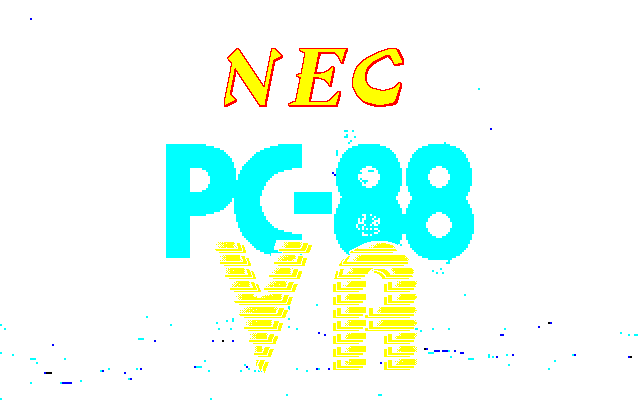
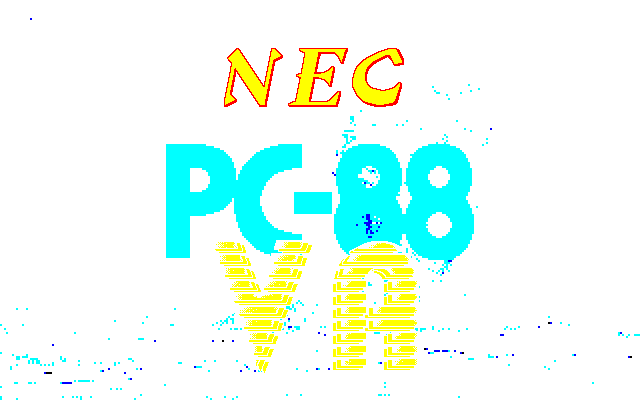
M109: keep the darkest step off on the digital RGB monitor

diff --git a/sdl2/selftest.c b/sdl2/selftest.c
@@ -5494,7 +5494,7 @@ static int test_8801_display(void) {
 }
 
 /* M103i: output levels for the analog and the digital RGB monitor; M109:
- * the digital monitor turns on every nonzero component. */
+ * the digital monitor turns a component on above 1/31 of full scale. */
 static int test_monitor_output_levels(void) {
 	const char *problem = NULL;
 
@@ -5504,11 +5504,12 @@ static int test_monitor_output_levels(void) {
 	    (scrndrawva_outputlevel(63, 6, FALSE) != 0xff)) {
 		problem = "analog output levels";
 	} else if ((scrndrawva_outputlevel(0, 5, TRUE) != 0) ||
-	           (scrndrawva_outputlevel(1, 5, TRUE) != 0xff) ||
+	           (scrndrawva_outputlevel(1, 5, TRUE) != 0) ||
+	           (scrndrawva_outputlevel(2, 5, TRUE) != 0xff) ||
 	           (scrndrawva_outputlevel(5, 5, TRUE) != 0xff) ||
-	           (scrndrawva_outputlevel(7, 6, TRUE) != 0xff) ||
-	           (scrndrawva_outputlevel(1, 6, TRUE) != 0xff) ||
-	           (scrndrawva_outputlevel(0, 6, TRUE) != 0)) {
+	           (scrndrawva_outputlevel(2, 6, TRUE) != 0) ||
+	           (scrndrawva_outputlevel(3, 6, TRUE) != 0xff) ||
+	           (scrndrawva_outputlevel(7, 6, TRUE) != 0xff)) {
 		problem = "digital RGB thresholds";
 	}
 	if (problem != NULL) {

diff --git a/vram/scrndrawva.c b/vram/scrndrawva.c
@@ -48,13 +48,14 @@ static void scrndrawva_initialize(void) {
  * Digital RGB monitor: [VA1] schematic pp. 261 and 263, the digital R, G and
  * B pins carry the analog colour drive through 1 kOhm, with no conversion
  * logic, so the monitor's input threshold decides each component. [MEAS]
- * (M109, PC-88VA2 VA demo on a digital monitor) every nonzero component is
- * on: the red NEC logo, R 31 G 7 of 63, shows yellow with a red edge (R 5)
- * and the dark rock white. See docs/modernization/digital8colormode.md.
+ * (M109, PC-88VA2 VA demo on a digital monitor) a component is on above
+ * 1/31 of full scale: the red NEC logo, R 31 G 7 of 63, shows yellow with a
+ * red edge (R 5) and the dark rock white, while a hidden screen in R 1 of 31
+ * stays black. See docs/modernization/digital8colormode.md.
  */
 BYTE scrndrawva_outputlevel(UINT value, UINT bits, BOOL digital) {
 	if (digital) {
-		return value ? 0xff : 0;
+		return ((value * 31) > ((1u << bits) - 1)) ? 0xff : 0;
 	}
 	return (BYTE)((value << (8 - bits)) | (value ? ((1u << (8 - bits)) - 1) : 0));
 }

diff --git a/docs/modernization/digital8colormode.md b/docs/modernization/digital8colormode.md
@@ -7,19 +7,21 @@ needed.
 
 ## Conversion
 
-Each of the colour components is converted on its own from the colour code
-the VA puts out (R and B 5 bits, G 6 bits, after the palette):
+Each colour component is converted on its own from the colour code the VA
+puts out (R and B 5 bits, G 6 bits, after the palette). A component is on
+(full, 255) when it is above 1/31 of full scale, otherwise off (0):
 
-| Component value | Digital monitor |
-| --- | --- |
-| 0 | off (0) |
-| 1 or more | on (full, 255) |
+| Component | Off | On |
+| --- | --- | --- |
+| R, B (5 bits, 0-31) | 0, 1 | 2-31 |
+| G (6 bits, 0-63) | 0, 1, 2 | 3-63 |
+
+In code: on when `value * 31 > 2^bits - 1`.
 
 So the picture has 8 colours: black, blue, red, magenta, green, cyan,
-yellow and white. Any colour that is not pure black in a component shows
-that component at full strength; for example, a dark grey (R 5, G 11,
-B 5) becomes white, and a red with a little green (R 31, G 7, B 0) becomes
-yellow.
+yellow and white. A dark grey such as R 5, G 11, B 5 becomes white, a red
+with a little green (R 31, G 7, B 0) becomes yellow, and the darkest red
+(R 1) stays black.
 
 The analog output is unchanged: a component `v` of `b` bits gives
 `(v << (8 - b))` with the low bits filled when `v` is nonzero.
@@ -34,13 +36,17 @@ Code: `scrndrawva_outputlevel()` in
   analog colour drive through 1 kΩ, with no conversion logic between them,
   so the monitor's input decides when a component is on.
 - `[MEAS]` M109, PC-88VA2 with a digital RGB monitor, the bundled PC-88VA
-  demonstration (maintainer's photograph,
-  [`m109-photos/va2-digital8-va-demo.jpg`](m109-photos/va2-digital8-va-demo.jpg)):
-  the NEC logo is yellow with a red edge, PC-88 cyan, VA yellow, and the sky,
-  the rock and the sea are white with a few blue and cyan dots.
-- The same scene in vaeg's analog output is
-  [`docs/images/vaeg-20260830-185259-0000024846-000.png`](../images/vaeg-20260830-185259-0000024846-000.png).
-  Its colour codes:
+  demonstration, maintainer's photographs (reduced, no metadata):
+  - [`va2-digital8-va-demo.jpg`](m109-photos/va2-digital8-va-demo.jpg):
+    the NEC logo is yellow with a red edge, PC-88 cyan, VA yellow, and the
+    sky, the rock and the sea are white with a few blue and cyan dots.
+  - [`va2-digital8-hidden-screen.jpg`](m109-photos/va2-digital8-hidden-screen.jpg):
+    while the schedule screen is being prepared, its area is black.
+  - [`va2-digital8-schedule.jpg`](m109-photos/va2-digital8-schedule.jpg):
+    the finished schedule screen.
+- Colour codes in vaeg's analog output for the same scenes (the logo scene
+  is
+  [`docs/images/vaeg-20260830-185259-0000024846-000.png`](../images/vaeg-20260830-185259-0000024846-000.png)):
 
   | Area | Analog colour (R/31, G/63, B/31) | Photograph | Needs |
   | --- | --- | --- | --- |
@@ -48,27 +54,28 @@ Code: `scrndrawva_outputlevel()` in
   | NEC edge | 5, 0, 0 (dark red) | red | R 5/31 on |
   | rock | e.g. 5, 11, 5 (dark grey) | white | R 5, G 11, B 5 on |
   | sky, sea | about 20, 55, 27 | white | all on |
+  | hidden screen (about frame 4800 of the demonstration) | 1, 0, 0 (65536-colour graphics, almost black) | black | R 1/31 off |
 
-  G 7 of 63 must already be on, so the threshold is at most 11 % of full
-  scale. Thresholds from the lowest step up to that limit all make the NEC
-  fill yellow; on this picture "nonzero is on" and "on from 8/255" give the
-  same image, and higher thresholds add cyan and blue dots in the sea that
-  the photograph does not show (from 16/255: twice as many dots, from 64/255
-  the former rule: many more, and the NEC logo turns red). "Nonzero is on"
-  is the simplest rule that matches, and is what vaeg uses.
-- The analog screenshot converted by this rule, which is what vaeg shows for
-  that frame:
+  So the threshold lies above 1/31 (3.2 %) and at most 7/63 (11 %) of full
+  scale. Within that range a lower threshold leaves fewer cyan and blue dots
+  in the sea; the lowest one, "above 1/31", is closest to the photograph and
+  is what vaeg uses.
+- The analog logo screenshot converted by this rule, which is what vaeg
+  shows for that frame:
   [`m109-photos/vaeg-digital8-va-demo.png`](m109-photos/vaeg-digital8-va-demo.png).
-  Running the demonstration in vaeg with the option on shows the same:
-  NEC and VA yellow, the NEC edge red, the background white.
+  Running the demonstration in vaeg with the option on shows NEC and VA
+  yellow, the NEC edge red, the background white, and the area of the
+  hidden screen black.
 
 ## History
 
 - M103i: introduced with the threshold at a quarter of full scale
   (`[POLICY]`), from the maintainer's recollection that the demonstration
   looked almost white on a digital monitor. That made the NEC logo red.
-- M109: replaced by "nonzero is on" from the photograph above.
+- M109: first "nonzero is on" from the logo photograph; that showed the
+  hidden screen (R 1) in bright red, which the hardware does not, so the
+  threshold became "above 1/31".
 
 Not measured: the exact input threshold of a particular digital monitor
-between the lowest nonzero step and 11 % of full scale; pictures whose
-colours fall in that range might differ on another monitor.
+between 1/31 and 11 % of full scale; pictures whose colours fall in that
+range might differ on another monitor.

diff --git a/docs/modernization/v1v2-mode-decisions.md b/docs/modernization/v1v2-mode-decisions.md
@@ -131,7 +131,7 @@ PC-8001 (N-BASIC) mode is described in full in
 | G6 | In colour mode `COLOR f,b` leaves the background black: the ROM writes the backdrop, but graphics colour 0 is opaque. | `[ROM]` register values; matches `[X88000]` colour mode | Approved by the maintainer (2026-10-04, G103d review) | — | photograph `COLOR 7,4` in SCREEN 0 |
 | G7 | Not modelled: 320-dot mode in 1 bit/pixel, GVRAM wait states. | — | Open | — | — |
 | G8 | 110h bit 7 (G3MSK) clear keeps plane 3 out of 4 bit/pixel display. Bug fix, in the ledger. | `[VA-TM]` ch. 4 and §8.3.2 | Approved by the maintainer (2026-10-04, G103f review) | `vram/makegrphva.c` | — |
-| G9 | Monitor (Emulate > モニタ): SW1 selects 24 kHz or 15 kHz at reset; the digital RGB option turns each colour component on when it is nonzero (8 colours; M109, formerly a quarter of full scale), display only. | `[VA1]` schematic pp. 261, 263 (digital R/G/B = analog drive through 1 kΩ, no conversion logic); `[MEAS]` M109 PC-88VA2 photograph of the VA demo on a digital monitor: NEC logo (R 31, G 7) yellow with a red edge, dark rock white ([digital8colormode.md](digital8colormode.md)) | Pending G103i | `io/videova.c`, `vram/scrndrawva.c` | the digital monitor threshold |
+| G9 | Monitor (Emulate > モニタ): SW1 selects 24 kHz or 15 kHz at reset; the digital RGB option turns each colour component on above 1/31 of full scale (8 colours; M109, formerly a quarter of full scale), display only. | `[VA1]` schematic pp. 261, 263 (digital R/G/B = analog drive through 1 kΩ, no conversion logic); `[MEAS]` M109 PC-88VA2 photograph of the VA demo on a digital monitor: NEC logo (R 31, G 7) yellow with a red edge, dark rock white, an R 1 screen black ([digital8colormode.md](digital8colormode.md)) | Pending G103i | `io/videova.c`, `vram/scrndrawva.c` | the digital monitor threshold |
 
 ## 7. Character ROM
 

diff --git a/docs/modernization/bug-fixes.md b/docs/modernization/bug-fixes.md
@@ -45,12 +45,15 @@ land.
   quarter of full scale (M103i `[POLICY]`). The logo's colour is R 31, G 7 of
   63; G 7 stayed off. The photograph needs G 7/63, R 5/31 and the rock's
   dark grey (5, 11, 5) on.
-- **Correction:** every nonzero component is on
-  ([digital8colormode.md](digital8colormode.md)).
+- **Correction:** a component is on above 1/31 of full scale
+  ([digital8colormode.md](digital8colormode.md)). A first correction,
+  "nonzero is on", showed a hidden R 1/31 screen of the demo in bright red;
+  the PC-88VA2 shows it black.
 - **Verification:** selftest `test_monitor_output_levels` (fails on the old
   rule); the VA demo in vaeg with the option shows NEC and VA yellow, the
-  NEC edge red and the background white, as in the
-  [photograph](m109-photos/va2-digital8-va-demo.jpg).
+  NEC edge red, the background white and the hidden screen black, as in the
+  [photographs](m109-photos/va2-digital8-va-demo.jpg)
+  ([hidden screen](m109-photos/va2-digital8-hidden-screen.jpg)).
 - **Milestone/task/commit:** M109;
   [correcting commit](https://github.com/nakatamaho/vaeg/commit/80a6223a9b2e23c0298e104ffb1333603eda73b7).
 
